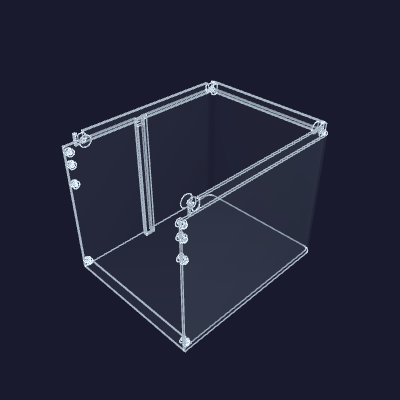
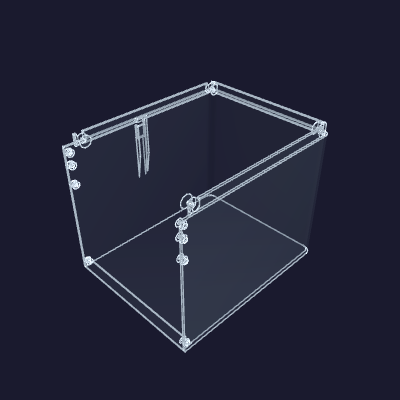
the vent turns down inside the wall, and the recess it leaves by runs out before the foot
The relief line's socket is roofed on the bore's own crown with the flank's skin
standing outboard of it, so the wall is unbroken where the tube lands and the way
out of the socket is down. Twenty-five millimetres under the bore the skin opens
and the passage carries on as a three-walled groove; twenty-five under that its
floor ramps back to the outer face over forty, and the recess is gone a hundred
above the foot.

The rib runs out on the ramp's own slope, so nothing of the chase reaches the
panel's bottom edge. Envelope unchanged at 215 wide, and the machine's lowest
plane is its floor again.

diff --git a/hardware/printed-parts/enclosure/enclosure/enclosure.py b/hardware/printed-parts/enclosure/enclosure/enclosure.py
@@ -687,6 +687,21 @@ def _yz_prism(x0, x1, section):
     )
 
 
+def _xz_prism(y0, y1, section):
+    """A prism along Y from y0 to y1, whose `section` is a closed `(x, z)` polygon.
+
+    `_yz_prism` turned a quarter. The `XZ` workplane faces −Y, so the extrusion is taken back
+    the other way and the prism set down at y0 — and its axes are the world's X and Z, which
+    is the plane a feature on a ±X wall is drawn in."""
+    return (
+        cq.Workplane("XZ")
+        .polyline(list(section)).close()
+        .extrude(-(y1 - y0))
+        .val()
+        .translate((0.0, y0, 0.0))
+    )
+
+
 def _round_z(solid, r):
     """Round a box solid's four standing-vertical (Z) corner edges by r — the
     print-bed corner relief, about the Z axis the pieces print along. r <= 0
@@ -2106,58 +2121,79 @@ def _side_wells(solid, inner, stations, y0, y1, z0, z1):
 
 # --- the PRV's chase, down the OUTSIDE of the west wall ----------------------
 #
-# The cold core's relief line is the one run that leaves that core by a flank instead of by
-# its lid (`_internal_routes.prv_vent_cross_z` says why: a relief vent is made up on nothing,
-# so what it owes is the short way to air, and tube length is discharge off the valve's
-# rating). It arrives here pointing west, standing `vent_socket_reach` proud of the core's
-# own flank, and this is the other half of that — what carries the discharge OUT OF THE BOX.
+# The cold core's relief line leaves that core by a flank (`_internal_routes.prv_vent_cross_z`).
+# It arrives here pointing west, standing `vent_socket_reach` proud of the core's own flank,
+# and this is what carries the discharge OUT OF THE BOX.
 #
-# IT IS A GROOVE IN THE OUTER FACE AND NOT A SPOUT, so the appliance is no wider for having
-# it. A spout would put the machine's width wherever the spout ends; a groove takes its depth
-# out of a wall thickened from the INSIDE, into the band the core already stands off, and the
-# outer face stays the plane `outer` names. Pressed flat against a cabinet the groove becomes
-# a duct rather than a blocked hole — which is the whole reason a vent is cut this way — and
-# it runs to the panel's own bottom edge, so the end it discharges from is the one edge no
-# install can seal. CO2 is heavier than air and wants that direction anyway.
+# ITS DEPTH COMES OUT OF A WALL THICKENED FROM THE INSIDE, into the band the core already
+# stands off, and the outer face stays the plane `outer` names.
 #
-# LENGTH IS FREE HERE AND IT IS NOT FREE IN THE TUBE. The groove runs several times the
-# tube's bore in section, so the run down the wall costs the relief path almost nothing,
-# while every diameter of TUBE does. That is the trade the whole reroute stands on: the tube
-# is drawn as short as the corner allows and the length is spent out here instead.
+# THE PASSAGE IS CLOSED WHERE THE TUBE LANDS AND OPEN BELOW IT. At the socket it is roofed on
+# the bore's own crown with the wall's SKIN still standing outboard of it, so the flank is
+# unbroken at that height and the one way out of the socket is DOWN. `vent_duct_drop` under
+# the bore the skin opens, and the passage carries on as a three-walled groove.
+#
+# AND THE GROOVE ENDS BY RUNNING OUT. Its floor ramps back to the outer face over
+# `vent_ramp_rise`, so the recess grows shallower until it is gone, and the flow reaches the
+# face travelling away from it, well above the foot. CO2 is heavier than air and falls from
+# there on its own.
 vent_socket_reach = 8.0        # what the core's tube stands proud of its flank — one number,
                                # read against `_internal_routes.prv_vent_reach` by the machine
 vent_rib_reach = 6.0           # how far the wall is thickened inboard, to the tube's own tip
 vent_bore_d = 6.5              # the shell's own ⌀6.5-round-⌀6.35 standard, again
-vent_channel_w = 12.0          # the groove, across
-vent_channel_depth = 4.0       # and into the outer face — under `wall + vent_rib_reach`
-vent_rib_wall = 2.0            # PETG either side of the groove
+vent_channel_w = 12.0          # the channel, across — several times the tube's bore in section
+vent_rib_wall = 2.0            # PETG either side of it, and behind it
+# Struck off the skin's INNER face, with the rib's balance standing behind it. `vent_rib_reach`
+# follows the tube's tip; this follows that.
+vent_channel_depth = vent_rib_reach - vent_rib_wall
+vent_duct_drop = 25.0          # the closed fall under the bore, before the skin opens
+vent_groove_drop = 25.0        # the open groove under that, which the duct discharges into
+vent_ramp_rise = 40.0          # over which the floor runs back out and turns the flow west
 
 
 def _vent_chase(solid, inner, outer, stations, y0, y1, z0, z1):
     """The PRV vent's chase on a −X wall PIECE, for the station inside the band it owns.
 
     One station, `(y, z)`: where the core's tube arrives, in the machine's own frame. Three
-    moves. A RIB is fused up the wall's inner face over the groove's whole run, because a
-    groove cut into a `wall`-thick sheet would be a hole; it reaches `vent_rib_reach` inboard,
-    which lands its face exactly on the tube's tip so the tube BOTTOMS rather than spanning
-    the band. The GROOVE is cut back out of the outer face, leaving the rib's balance standing
-    behind it. And between them the SOCKET, which is the tube's own bore — cut FORWARD-OPEN,
-    because the core is slid aft onto its stops and a blind bore is one no tube could ever
-    enter. The tube sweeps in from the front and comes to rest at the socket's aft end."""
+    moves. A RIB is fused up the wall's inner face over the channel's run, reaching
+    `vent_rib_reach` inboard, which lands its face exactly on the tube's tip so the tube
+    BOTTOMS rather than spanning the band. The CHANNEL is cut back out of it in one profile —
+    roofed duct, open groove and run-out ramp are one polygon, one passage, and what changes
+    down it is how much of the wall is still standing outboard. And between them the SOCKET,
+    the tube's own bore, cut FORWARD-OPEN: the core is slid aft onto its stops, so the tube
+    sweeps in from the front and comes to rest at the socket's aft end.
+
+    THE RIB RUNS OUT WITH THE RAMP. It stands behind the channel's floor, so it reaches as far
+    down as that floor is still inboard of what the skin alone stands `vent_rib_wall` behind.
+    Under that the ramp is cutting skin the wall already had, and the rib ends on the ramp's
+    own slope."""
     for sy, sz in stations:
         if not (y0 <= sy <= y1 and z0 <= sz <= z1):
             continue
         rib_x = inner[0] + vent_rib_reach
+        floor_x = inner[0] + vent_channel_depth     # the channel's own back face, all the way down
         half = vent_channel_w / 2.0 + vent_rib_wall
-        foot = outer[4] - 1.0                       # out through the panel's own bottom edge
-        solid = solid.fuse(_ybox(inner[0], rib_x, sy - half, sy + half, foot, sz + half))
-        # The groove, and it runs OFF the bottom edge rather than ending in the wall: a recess
-        # closed at its foot is a pocket, and a pocket is what a cabinet pressed against this
-        # face would seal shut.
-        solid = solid.cut(_ybox(outer[0] - 1.0, outer[0] + vent_channel_depth,
-                                sy - vent_channel_w / 2.0, sy + vent_channel_w / 2.0,
-                                foot, sz + vent_channel_w / 2.0))
+        duct_top = sz + vent_bore_d / 2.0           # the roof, on the bore's own crown
+        groove_top = sz - vent_duct_drop            # where the skin opens
+        ramp_top = groove_top - vent_groove_drop
+        ramp_bot = ramp_top - vent_ramp_rise        # where the floor has met the outer face
+        # The ramp is carried one more millimetre of DEPTH past that, out into air.
+        over = vent_ramp_rise / (floor_x - outer[0])
+        # And the rib to where the skin alone stands `vent_rib_wall` behind the floor.
+        rib_end = ramp_top - vent_ramp_rise * ((floor_x - (inner[0] - vent_rib_wall))
+                                               / (floor_x - outer[0]))
+        solid = solid.fuse(_xz_prism(sy - half, sy + half,
+                                     [(inner[0], sz + half), (rib_x, sz + half),
+                                      (rib_x, ramp_top), (inner[0], rib_end)]))
+        solid = solid.cut(_xz_prism(sy - vent_channel_w / 2.0, sy + vent_channel_w / 2.0,
+                                    [(floor_x, duct_top),            # \ the floor, straight down
+                                     (floor_x, ramp_top),            # /  behind duct and groove
+                                     (outer[0] - 1.0, ramp_bot - over),   # the ramp, run out
+                                     (outer[0] - 1.0, groove_top),   # the groove's open side
+                                     (inner[0], groove_top),         # over it the skin stands,
+                                     (inner[0], duct_top)]))         # and that closes the duct
         # The socket: the tube's bore through the rib, open forward for the core's own travel.
+        # It stops on the skin's inner face, so the flank is unbroken at the height it lands.
         solid = solid.cut(_ybox(inner[0], rib_x + 1.0, sy - half - 1.0, sy + vent_bore_d / 2.0,
                                 sz - vent_bore_d / 2.0, sz + vent_bore_d / 2.0))
     return solid
@@ -2957,7 +2993,7 @@ def build_piece(box, y_side, z_side, halves_cache=None):
     piece = _core_stops(piece, inner, box.core_stops, ylo, yhi, zlo, zhi)
     piece = _core_holds(piece, inner, box.core_holds, ylo, yhi, zlo, zhi)
     # And the core's relief, which leaves it by a flank and needs somewhere to go: the rib is
-    # fused before the groove is cut out of it, which is the same order the card slot takes.
+    # fused before the channel is cut out of it, which is the same order the card slot takes.
     piece = _vent_chase(piece, inner, outer, box.vent_chase, ylo, yhi, zlo, zhi)
     # And the tap-water chain's, on the same wall a storey up. After the tray's rails, whose
     # band it stands over, and last like every other pocket: its tie slots are cut out of the

diff --git a/hardware/ledger/machine-time.md b/hardware/ledger/machine-time.md
@@ -17,13 +17,13 @@ Masses come from bom.md §7, which is geometry-derived and commit-gated, so a pr
 
 | Group | Parts | Rate | Mass | Hours |
 |---|---|---|---:|---:|
-| Bulk PETG, 0.8 nozzle | Cold-core shell, both enclosure sets, four foam-cap pieces | [10.8](MT_RATE_BULK) h/kg — **measured** | [5.203](MT_KG_BULK) kg | [56.2](MT_H_BULK) |
+| Bulk PETG, 0.8 nozzle | Cold-core shell, both enclosure sets, four foam-cap pieces | [10.8](MT_RATE_BULK) h/kg — **measured** | [5.193](MT_KG_BULK) kg | [56.1](MT_H_BULK) |
 | Watertight translucent PETG | Both reservoir bodies + caps — 3 mm walls, Arachne, fine nozzle for a syrup-tight wall ([watertight-petg.md](/hardware/printed-parts/cold-core/reservoir/watertight-petg.md)) | [22](MT_RATE_TIGHT) h/kg — est., ~½ the bulk volumetric rate | [0.880](MT_KG_TIGHT) kg | [19.4](MT_H_TIGHT) |
 | Small PETG parts | Drip pan, plug stack, PRV shroud, reed bridge, fuse clamp | [30](MT_RATE_SMALL) h/kg — est., travel and layer-change overhead dominate a small part | [0.074](MT_KG_SMALL) kg | [2.2](MT_H_SMALL) |
 | PET-CF, 0.4 nozzle | Faucet touch-flo shell + mounting plate — fine layers, 50 °C chamber, hardened nozzle | [60](MT_RATE_PETCF) h/kg — est. | [0.163](MT_KG_PETCF) kg | [9.8](MT_H_PETCF) |
-| **Printer time per unit** | | | **[6.320](MT_KG)** kg | **[87.6](MT_H_PRINT)** |
+| **Printer time per unit** | | | **[6.310](MT_KG)** kg | **[87.4](MT_H_PRINT)** |
 
-Spread across [2](MT_PRINTERS) machines that is **[43.8](MT_H_PRINT_WALL) hours** of wall clock, and it is the longest pole in the build by an order of magnitude.
+Spread across [2](MT_PRINTERS) machines that is **[43.7](MT_H_PRINT_WALL) hours** of wall clock, and it is the longest pole in the build by an order of magnitude.
 
 Filament drying is not per-unit: the AMS 2 Pro dries PETG in place and feeds the print from the same unit, so PETG costs no separate cycle. PET-CF is dried [10 h at 100 °C](MT_PETCF_DRY) per spool, not per build.
 
@@ -62,7 +62,7 @@ The printers are the constraint and nothing else is close. Per unit:
 
 | Machine | Occupied per unit | Units/year at 100 % | |
 |---|---:|---:|---|
-| [2](MT_PRINTERS) × H2C | [43.8](MT_H_PRINT_WALL) h wall | [200](MT_CEIL_PRINT) | **the bottleneck** |
+| [2](MT_PRINTERS) × H2C | [43.7](MT_H_PRINT_WALL) h wall | [200](MT_CEIL_PRINT) | **the bottleneck** |
 | Test bench (burn-in + chill) | [9.0](MT_OCC_BENCH) h | [973](MT_CEIL_BENCH) | |
 | Funnel mold + oven | [9.0](MT_OCC_MOLD) h | [973](MT_CEIL_MOLD) | |
 | Hydro rig, passivation tub, vacuum pump | [2.6](MT_OCC_VESSEL) h | [3,369](MT_CEIL_VESSEL) | |
@@ -75,18 +75,18 @@ What one unit takes end to end if production is unpaused and the shop starts emp
 
 | Stage | Hours | |
 |---|---:|---|
-| Print every part | [43.8](MT_H_PRINT_WALL) | 2 printers, both on this unit |
+| Print every part | [43.7](MT_H_PRINT_WALL) | 2 printers, both on this unit |
 | Build the cold core; pour the foam and let it cure | 8.0 | vessel already done, in parallel with the prints |
 | Assembly, plumbing, wiring | 8.0 | one working day |
 | Power-on and test | 2.0 | |
 | First fill and chill-down | 1.0 | |
 | Burn-in | 8.0 | |
 | Finish and pack | 1.0 | |
-| **Turnaround** | **[71.8](MT_H_TURN)** | **[3.0](MT_DAYS_TURN) days** |
+| **Turnaround** | **[71.7](MT_H_TURN)** | **[3.0](MT_DAYS_TURN) days** |
 
 Runs in parallel with the print, and so costs no turnaround at all: the whole pressure-vessel chain (machining, welding, PT, hydro, passivation, fittings), the twelve harnesses, the silicone funnel's cure and bake, and the PRV-shroud subassembly with its 24-hour caulk cure. Each of those has to be *started* early enough, which is a scheduling problem, not a duration one.
 
-A second unit behind the first does not cost another [3.0](MT_DAYS_TURN) days — it costs the bottleneck's [43.8](MT_H_PRINT_WALL) hours, since its prints start the moment the first unit's come off the plates.
+A second unit behind the first does not cost another [3.0](MT_DAYS_TURN) days — it costs the bottleneck's [43.7](MT_H_PRINT_WALL) hours, since its prints start the moment the first unit's come off the plates.
 
 ## Open items
 

diff --git a/hardware/ledger/bom.md b/hardware/ledger/bom.md
@@ -139,15 +139,15 @@ The wetted surface is the print itself, qualified by [`wetted-surface-test.md`](
 | Flavor reservoir cap — right | 1 | PETG (translucent) | 0.058 | $0.65 <!--@printed--> |
 | Enclosure — front bottom + front top (two pieces) | 1 set | PETG | 1.726 | $19.33 <!--@printed--> |
 | Carbonator reed bridge | 1 | PETG | 0.008 | $0.09 <!--@printed--> |
-| Enclosure — back bottom + back top (two pieces) | 1 set | PETG | 1.527 | $17.10 <!--@printed--> |
+| Enclosure — back bottom + back top (two pieces) | 1 set | PETG | 1.517 | $16.99 <!--@printed--> |
 | Port ring — one per rear-wall crossing | 5 | PETG (blue, white, red, black ×2) | 0.006 | $0.07 <!--@printed--> |
 | Drip pan | 1 | PETG | 0.031 | $0.34 <!--@printed--> |
 | Fuse clamp | 1 | PETG | 0.007 | $0.08 <!--@printed--> |
 | Faucet touch-flo shell (3-piece: bottom + middle + top) | 1 | PET-CF | 0.150 | $5.92 <!--@printed--> |
 | Faucet mounting plate | 1 | PET-CF | 0.013 | $0.53 <!--@printed--> |
-| **Printed parts total** | | | **~6.32** | **[$75.41](BOM_SEC7)** |
+| **Printed parts total** | | | **~6.31** | **[$75.30](BOM_SEC7)** |
 
-By material: PETG ≈ 6.16 kg / $68.95 — of which the four translucent reservoir parts are ≈ 0.88 kg / $9.85 — and PET-CF ≈ 0.16 kg / $6.44.
+By material: PETG ≈ 6.15 kg / $68.85 — of which the four translucent reservoir parts are ≈ 0.88 kg / $9.85 — and PET-CF ≈ 0.16 kg / $6.44.
 
 Each cap lid ships bolted to its cap. It is the pour clamp at [`cold-core.md`](/hardware/assembly/cold-core.md) step 3 and stays: the six M3 × 25 SHCS per face pass through lid and cap into the shell-face inserts, the CO2 line enters through the top lid's tube hole, and the top lid's outer face is the plane the whole water deck and the power column stand on. The top lid also carries the [3](CAP_CRADLES) valve cradles — four bosses printed into that face per valve that stands on it (`_cold_core_interface.cap_cradles`, [`valve-seat/`](/hardware/printed-parts/valve-seat/)) — which is why it outweighs the bottom one. The cradles are a press fit and take no screw. The top cap under it carries the [4](DECK_INSERTS) deck-mount columns, which are the cap's rotation key and the water pump's own bolt pattern: its bracket bolts down into all [4](PUMP_MOUNT_SCREWS).
 
@@ -288,7 +288,7 @@ Per-appliance tools that ship in the install kit so the field installer can cut 
 | 4. CO2 subsystem | [$96.56](BOM_SEC4) |
 | 5. Refrigeration | [$142.25](BOM_SEC5) |
 | 6. Cold core insulation | [$15.62](BOM_SEC6) |
-| 7. Printed parts (PETG + PET-CF) | [$75.41](BOM_SEC7) |
+| 7. Printed parts (PETG + PET-CF) | [$75.30](BOM_SEC7) |
 | 8. Flavor subsystem | [$203.99](BOM_SEC8) |
 | 9. Dispensing | [$60.29](BOM_SEC9) |
 | 10. UI | [$0.00](BOM_SEC10) |
@@ -296,7 +296,7 @@ Per-appliance tools that ship in the install kit so the field installer can cut 
 | 12. Level sensing | [$37.50](BOM_SEC12) |
 | 13. Mechanical attach hardware + reservoir-cap vent filter | [$11.12](BOM_SEC13) |
 | 14. Install kit | [$4.29](BOM_SEC14) |
-| **Total** | **[$1,284.24](BOM_GRAND)** |
+| **Total** | **[$1,284.13](BOM_GRAND)** |
 
 ## External / user-supplied (not shipped)
 

diff --git a/hardware/printed-parts/enclosure/README.md b/hardware/printed-parts/enclosure/README.md
@@ -26,7 +26,7 @@ What the core's yaw buys is vertical: a column above and ahead of it, where the 
 
 **The top of the box is packed.** A flat 45° facet chamfers the whole top-front arris, wall to wall, with the ESP32-S3 config display let into it and flat 45° face either side. Immediately behind it, the flavor funnel takes the top wall's full width and reaches aft for the plan area its capacity needs — which puts it across the front↔back seam, both halves taking their share of the opening. Detail: [`enclosure/README.md`](/hardware/printed-parts/enclosure/enclosure/README.md), [`/hardware/printed-parts/zone-c/README.md`](/hardware/printed-parts/zone-c/README.md).
 
-**The back column carries no open Z band under its content, so its seam runs through it.** The core's cap stack runs from the floor slab and the whole bay stands on its lid, so the column is solid to the bay's crown and every band it leaves open stands higher than a [320](BED_Z) mm bed carries the piece beneath. A Z seam's lip is a one-wall ring inset from the cavity, and the pack stands one wall off the front and back walls and one boss chain off the sides, so that ring runs free at every height; the seam takes the bed's own band, nearest the box's half-height — [197.7](BACK_Z_SEAM), leaving [214.8](BACK_BOTTOM_H) mm under it. The cold core spans it, as it spans the front column's seam on the other side of the Y joint.
+**The back column carries no open Z band under its content, so its seam runs through it.** The core's cap stack runs from the floor slab and the whole bay stands on its lid, so the column is solid to the bay's crown and every band it leaves open stands higher than a [320](BED_Z) mm bed carries the piece beneath. A Z seam's lip is a one-wall ring inset from the cavity, and the pack stands one wall off the front and back walls and one boss chain off the sides, so that ring runs free at every height; the seam takes the bed's own band, nearest the box's half-height — [197.7](BACK_Z_SEAM), leaving [213.8](BACK_BOTTOM_H) mm under it. The cold core spans it, as it spans the front column's seam on the other side of the Y joint.
 
 **What crosses the back wall.** The three umbilical unions — carbonated water to the faucet and the two flavour lines to their nozzles — cross on one storey at z [336.2](PORT_ROW_Z), at a [18.68](PANEL_PITCH) mm pitch, which is well past what a socket needs to reach a nut with its neighbours made up. The band they take is the one over the pump's crown and under the top wall, open from the west boss chain across to the C14's own corner. The tap-water union stands lower, at z [336.2](WATER_PORT_Z), on the ASSE chain's own inlet column, so the joint between the two is flush and the chain stands as far aft as the wall allows. The CO2 inlet crosses on that same storey, one pitch east of the carb union, and the mains C14 takes the +X flank beside the power block. Detail: [`back-panel/`](/hardware/printed-parts/enclosure/back-panel/).
 
